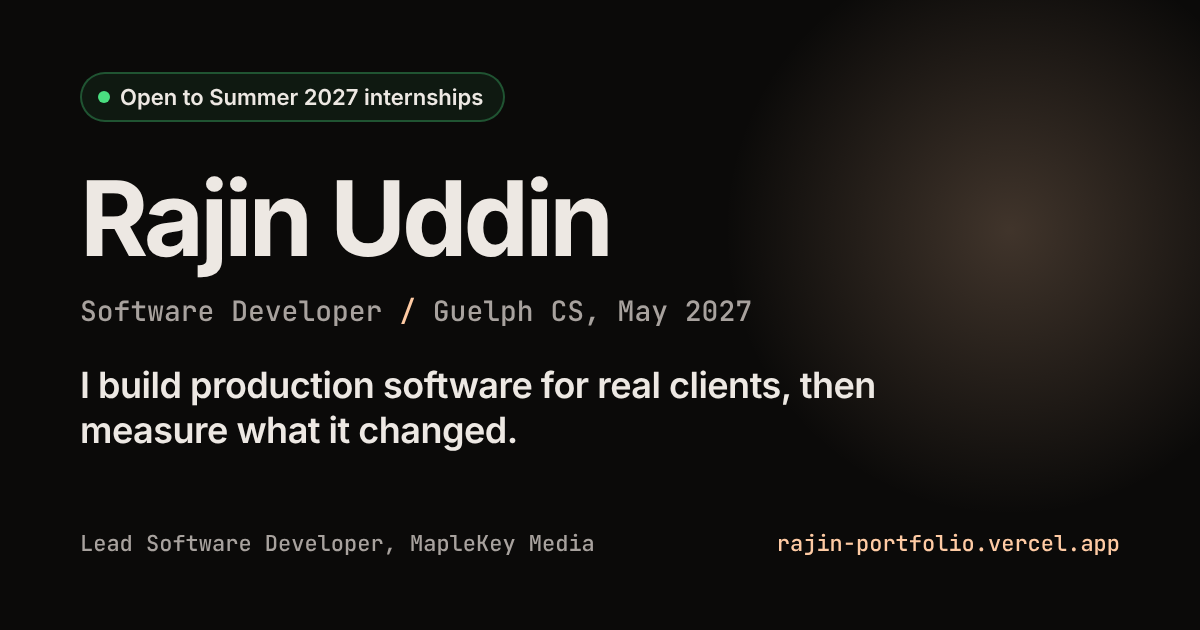
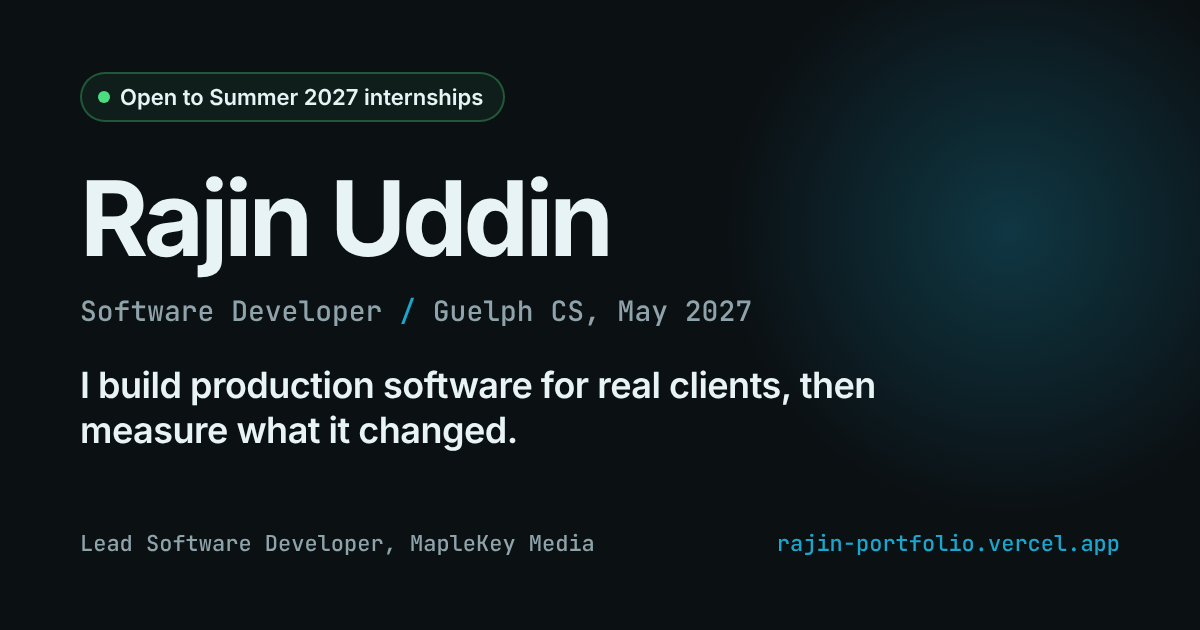
Switch palette to black basalt, bone and glacier blue
- Tokens: basalt #0B1013 background, bone #E8F3F6 text, glacier blue #1BA6CD
  accent (actions only), cool neutrals for body and labels. All pass WCAG AA
  (bone 16.9:1, accent 6.7:1, dark text on accent buttons 6.7:1).
- 3D scene, CRT screen phosphor, favicon, touch icon and OG image recoloured.
- CLAUDE.md palette rules updated.

Claude-Session: https://claude.ai/code/session_01JBP2EumYtCY2mXRBGovGVR

diff --git a/src/styles/sections.css b/src/styles/sections.css
@@ -41,7 +41,7 @@ main > section + section .section-container { border-top: 1px solid var(--color-
   align-items: center;
   min-height: 44px;
   gap: 6px;
-  color: var(--color-peach);
+  color: var(--color-accent);
   font-weight: 600;
   font-size: var(--text-sm);
   text-decoration: none;
@@ -93,8 +93,8 @@ main > section + section .section-container { border-top: 1px solid var(--color-
 }
 .project > article { display: flex; flex-direction: column; width: 100%; }
 .project .tags { margin-top: auto; }
-.project:hover { border-color: rgba(237, 232, 227, 0.2); }
-.project--featured { grid-column: 1 / -1; border-color: rgba(255, 203, 164, 0.28); }
+.project:hover { border-color: rgba(232, 243, 246, 0.2); }
+.project--featured { grid-column: 1 / -1; border-color: rgba(27, 166, 205, 0.28); }
 .project--featured .project__story { grid-template-columns: repeat(3, minmax(0, 1fr)); }
 
 .project__head { margin-bottom: var(--space-6); }
@@ -120,7 +120,7 @@ main > section + section .section-container { border-top: 1px solid var(--color-
 .about__grid { display: grid; grid-template-columns: 1.15fr 1fr; gap: var(--space-16); align-items: start; }
 .about__bio p { color: var(--color-muted); margin-bottom: var(--space-4); max-width: 62ch; }
 .about__bio .about__next { color: var(--color-text); }
-.about__next strong { color: var(--color-peach); font-weight: 600; }
+.about__next strong { color: var(--color-accent); font-weight: 600; }
 .skills { display: flex; flex-direction: column; gap: var(--space-6); }
 .skills__label { font-size: var(--text-xs); font-weight: 600; color: var(--color-subtle); margin-bottom: var(--space-2); letter-spacing: 0.02em; }
 
@@ -128,7 +128,7 @@ main > section + section .section-container { border-top: 1px solid var(--color-
 .term {
   border: 1px solid var(--color-line);
   border-radius: var(--radius);
-  background: #0f0e0c;
+  background: #0e1519;
   overflow: hidden;
   font-family: var(--font-mono);
 }
@@ -150,7 +150,7 @@ main > section + section .section-container { border-top: 1px solid var(--color-
   max-height: 360px;
   overflow-y: auto;
 }
-.term__ps1, .term__prompt { color: var(--color-peach); }
+.term__ps1, .term__prompt { color: var(--color-accent); }
 .term__form { display: flex; align-items: center; gap: 0; margin-top: 2px; }
 .term__prompt { font-size: 0.875rem; white-space: nowrap; }
 .term__input {
@@ -162,10 +162,10 @@ main > section + section .section-container { border-top: 1px solid var(--color-
   color: var(--color-text);
   font-family: var(--font-mono);
   font-size: 16px; /* 16px stops iOS from zooming the page on focus */
-  caret-color: var(--color-peach);
+  caret-color: var(--color-accent);
 }
 .term__input:focus { outline: none; }
-.term__form:focus-within { box-shadow: inset 0 -1px 0 var(--color-peach-dim); }
+.term__form:focus-within { box-shadow: inset 0 -1px 0 var(--color-accent-dim); }
 .term__chips {
   display: flex;
   flex-wrap: wrap;
@@ -185,7 +185,7 @@ main > section + section .section-container { border-top: 1px solid var(--color-
   cursor: pointer;
   transition: border-color var(--duration) ease, color var(--duration) ease;
 }
-.chip:hover { border-color: rgba(255, 203, 164, 0.5); color: var(--color-peach); }
+.chip:hover { border-color: rgba(27, 166, 205, 0.5); color: var(--color-accent); }
 
 /* ---------- Contact ---------- */
 .contact .section-head { max-width: 760px; }
@@ -208,7 +208,7 @@ main > section + section .section-container { border-top: 1px solid var(--color-
   transition: color var(--duration) ease, border-color var(--duration) ease;
 }
 .contact__link svg { width: 16px; height: 16px; fill: currentColor; }
-.contact__link:hover { color: var(--color-text); border-color: rgba(237, 232, 227, 0.25); }
+.contact__link:hover { color: var(--color-text); border-color: rgba(232, 243, 246, 0.25); }
 .contact__pdf { font-family: var(--font-mono); font-size: 0.625rem; font-weight: 600; padding: 2px 4px; border-radius: 3px; background: var(--color-surface-2); }
 
 .site-footer { padding-top: var(--space-8); border-top: 1px solid var(--color-line); font-size: var(--text-xs); color: var(--color-subtle); }

diff --git a/src/styles/global.css b/src/styles/global.css
@@ -1,19 +1,19 @@
 /* ============================================================
-   Design tokens
-   Palette rule: neutrals carry the content, peach is reserved for
-   things you can click, green only means "available".
+   Design tokens: basalt, bone and glacier blue
+   Palette rule: neutrals carry the content, glacier blue is reserved
+   for things you can click, green only means "available".
    ============================================================ */
 :root {
-  --color-dark: #0b0a09;          /* warm black, page */
-  --color-surface: #14120f;       /* cards */
-  --color-surface-2: #1c1915;     /* raised */
-  --color-text: #ede8e3;          /* warm white, 16:1 on page */
-  --color-muted: #c4bdb6;         /* body copy, 10:1 on cards */
-  --color-subtle: #a8a29e;        /* metadata, 7.4:1 on cards (was #666, 3.3:1, failed WCAG) */
-  --color-line: rgba(237, 232, 227, 0.09);
-  --color-peach: #ffcba4;         /* actions only */
-  --color-peach-strong: #ffb98a;
-  --color-peach-dim: rgba(255, 203, 164, 0.14);
+  --color-dark: #0b1013;          /* black basalt, page */
+  --color-surface: #121a1f;       /* cards */
+  --color-surface-2: #18232a;     /* raised */
+  --color-text: #e8f3f6;          /* bone, 16.9:1 on page */
+  --color-muted: #b9c8ce;         /* body copy, 10.2:1 on cards */
+  --color-subtle: #8fa3ab;        /* metadata, 6.7:1 on cards */
+  --color-line: rgba(232, 243, 246, 0.09);
+  --color-accent: #1ba6cd;        /* glacier blue, actions only, 6.7:1 on page */
+  --color-accent-strong: #3dbbdd; /* hover */
+  --color-accent-dim: rgba(27, 166, 205, 0.14);
   --color-available: #4ade80;
 
   --font-mono: 'JetBrains Mono', ui-monospace, 'SFMono-Regular', Menlo, monospace;
@@ -69,11 +69,11 @@ ul, ol { list-style: none; }
 a { color: inherit; }
 button { font: inherit; color: inherit; }
 
-::selection { background: var(--color-peach); color: var(--color-dark); }
+::selection { background: var(--color-accent); color: var(--color-dark); }
 
 /* One visible, consistent focus ring everywhere (keyboard users only) */
 :focus-visible {
-  outline: 2px solid var(--color-peach);
+  outline: 2px solid var(--color-accent);
   outline-offset: 3px;
   border-radius: 4px;
 }
@@ -84,7 +84,7 @@ button { font: inherit; color: inherit; }
   left: 12px;
   z-index: 300;
   padding: 10px 16px;
-  background: var(--color-peach);
+  background: var(--color-accent);
   color: var(--color-dark);
   font-weight: 600;
   border-radius: 6px;
@@ -120,7 +120,7 @@ button { font: inherit; color: inherit; }
 }
 
 .noscript { padding: 120px 24px; max-width: 640px; margin: 0 auto; }
-.noscript a { color: var(--color-peach); }
+.noscript a { color: var(--color-accent); }
 
 /* ---------- Buttons: one primary per view, clear hierarchy ---------- */
 .btn {
@@ -144,14 +144,14 @@ button { font: inherit; color: inherit; }
 }
 .btn:active { transform: translateY(1px) scale(0.99); }
 
-.btn--primary { background: var(--color-peach); color: var(--color-dark); }
-.btn--primary:hover { background: var(--color-peach-strong); }
+.btn--primary { background: var(--color-accent); color: var(--color-dark); }
+.btn--primary:hover { background: var(--color-accent-strong); }
 
-.btn--secondary { border-color: rgba(255, 203, 164, 0.55); color: var(--color-peach); }
-.btn--secondary:hover { background: var(--color-peach-dim); border-color: var(--color-peach); }
+.btn--secondary { border-color: rgba(27, 166, 205, 0.55); color: var(--color-accent); }
+.btn--secondary:hover { background: var(--color-accent-dim); border-color: var(--color-accent); }
 
 .btn--ghost { color: var(--color-muted); }
-.btn--ghost:hover { color: var(--color-text); background: rgba(237, 232, 227, 0.06); }
+.btn--ghost:hover { color: var(--color-text); background: rgba(232, 243, 246, 0.06); }
 
 .btn--sm { min-height: 38px; padding: 0 var(--space-4); font-size: var(--text-xs); }
 .btn--lg { min-height: 56px; padding: 0 var(--space-8); font-size: var(--text-base); }

diff --git a/src/computer/ComputerModel.ts b/src/computer/ComputerModel.ts
@@ -11,25 +11,25 @@ export class ComputerModel {
 
     // --- Materials ---
     const darkPlastic = new THREE.MeshStandardMaterial({
-      color: 0x1c1c1c,
+      color: 0x1a2328,
       roughness: 0.75,
       metalness: 0.05,
     })
 
     const bezelMat = new THREE.MeshStandardMaterial({
-      color: 0x242424,
+      color: 0x202b31,
       roughness: 0.7,
       metalness: 0.05,
     })
 
     const keyboardMat = new THREE.MeshStandardMaterial({
-      color: 0x202020,
+      color: 0x1c252a,
       roughness: 0.8,
       metalness: 0.0,
     })
 
     const keyMat = new THREE.MeshStandardMaterial({
-      color: 0x2a2a2a,
+      color: 0x26323a,
       roughness: 0.9,
       metalness: 0.0,
     })
@@ -113,20 +113,20 @@ export class ComputerModel {
     this.group.add(divider)
 
     // --- Lighting ---
-    const ambientLight = new THREE.AmbientLight(0xfff0e5, 0.5)
+    const ambientLight = new THREE.AmbientLight(0xe8f3f6, 0.45)
     scene.add(ambientLight)
 
-    const keyLight = new THREE.PointLight(0xffcba4, 60, 15)
+    const keyLight = new THREE.PointLight(0xe8f3f6, 55, 15)
     keyLight.position.set(-2, 3, 4)
     keyLight.castShadow = true
     scene.add(keyLight)
 
-    const fillLight = new THREE.PointLight(0xffffff, 10, 10)
+    const fillLight = new THREE.PointLight(0x1ba6cd, 10, 10)
     fillLight.position.set(2, 1, 3)
     scene.add(fillLight)
 
-    // Screen glow — soft peach emanating from the monitor
-    const screenGlow = new THREE.PointLight(0xffcba4, 5, 2)
+    // Screen glow: soft glacier blue spilling from the monitor
+    const screenGlow = new THREE.PointLight(0x1ba6cd, 2, 1.5)
     screenGlow.position.set(0, 0.4, 0.5)
     this.group.add(screenGlow)
   }

diff --git a/src/computer/ScreenRenderer.ts b/src/computer/ScreenRenderer.ts
@@ -10,11 +10,11 @@ const PADDING = 40
 const CURSOR_W = 14
 const MAX_LINES = Math.floor((CANVAS_H - PADDING * 2) / LINE_HEIGHT)
 
-const COLOR_BG = '#050f0a'
-const COLOR_TEXT = '#c8ffc8'
-const COLOR_DIM = '#5a8a5a'
-const COLOR_PROMPT = '#ffcba4'
-const COLOR_CURSOR = '#ffcba4'
+const COLOR_BG = '#050c10'
+const COLOR_TEXT = '#d4eef5'
+const COLOR_DIM = '#5f8794'
+const COLOR_PROMPT = '#3dbbdd'
+const COLOR_CURSOR = '#3dbbdd'
 
 const BOOT_LINES = [
   'RU-BIOS 2.0  rajin@portfolio',
@@ -165,9 +165,9 @@ export class ScreenRenderer {
     ctx.fillStyle = COLOR_BG
     ctx.fillRect(0, 0, CANVAS_W, CANVAS_H)
 
-    // Subtle green gradient overlay (CRT phosphor warmth)
+    // Subtle glacier blue gradient overlay (CRT phosphor glow)
     const grad = ctx.createLinearGradient(0, 0, 0, CANVAS_H)
-    grad.addColorStop(0, 'rgba(0,255,128,0.04)')
+    grad.addColorStop(0, 'rgba(27,166,205,0.06)')
     grad.addColorStop(1, 'rgba(0,0,0,0)')
     ctx.fillStyle = grad
     ctx.fillRect(0, 0, CANVAS_W, CANVAS_H)

diff --git a/src/styles/navigation.css b/src/styles/navigation.css
@@ -14,7 +14,7 @@
 
 .nav--scrolled,
 .nav--open {
-  background: rgba(11, 10, 9, 0.82);
+  background: rgba(11, 16, 19, 0.82);
   backdrop-filter: blur(14px);
   -webkit-backdrop-filter: blur(14px);
   border-color: var(--color-line);
@@ -56,7 +56,7 @@
   transition: color var(--duration) ease, background var(--duration) ease;
 }
 .nav__link:hover { color: var(--color-text); }
-.nav__link.is-active { color: var(--color-text); background: rgba(237, 232, 227, 0.07); }
+.nav__link.is-active { color: var(--color-text); background: rgba(232, 243, 246, 0.07); }
 
 .nav__toggle {
   display: none;
@@ -85,7 +85,7 @@
   top: var(--nav-h);
   left: 0;
   right: 0;
-  background: rgba(11, 10, 9, 0.97);
+  background: rgba(11, 16, 19, 0.97);
   border-bottom: 1px solid var(--color-line);
   padding: var(--space-4) var(--space-6) var(--space-8);
 }

diff --git a/src/styles/hero.css b/src/styles/hero.css
@@ -67,7 +67,7 @@
   color: var(--color-subtle);
   margin-bottom: var(--space-6);
 }
-.hero__role-sep { color: var(--color-peach); margin: 0 4px; }
+.hero__role-sep { color: var(--color-accent); margin: 0 4px; }
 
 .hero__pitch {
   font-size: var(--text-xl);
@@ -110,11 +110,11 @@
   letter-spacing: 0.08em;
 }
 .has-3d .hero__scroll-hint { display: block; }
-.hero__scroll-hint::after { content: ' \2193'; color: var(--color-peach); }
+.hero__scroll-hint::after { content: ' \2193'; color: var(--color-accent); }
 
 /* Keep the copy readable when it sits over the 3D scene */
 .has-3d .hero__content {
-  text-shadow: 0 1px 24px rgba(11, 10, 9, 0.9);
+  text-shadow: 0 1px 24px rgba(11, 16, 19, 0.9);
 }
 
 @media (max-width: 640px) {

diff --git a/index.html b/index.html
@@ -6,7 +6,7 @@
   <title>Rajin Uddin | Software Developer, Guelph CS 2027</title>
   <meta name="description" content="Rajin Uddin is a Guelph Computer Science student and Lead Software Developer at MapleKey Media. Open to Summer 2027 internships and 12 to 16 month terms." />
   <meta name="author" content="Rajin Uddin" />
-  <meta name="theme-color" content="#0b0a09" />
+  <meta name="theme-color" content="#0b1013" />
   <meta name="color-scheme" content="dark" />
   <link rel="canonical" href="https://rajin-portfolio.vercel.app/" />
   <link rel="icon" href="/favicon.svg" type="image/svg+xml" />

diff --git a/src/scene/SceneManager.ts b/src/scene/SceneManager.ts
@@ -13,7 +13,7 @@ export class SceneManager {
 
   constructor() {
     this.scene = new THREE.Scene()
-    this.scene.background = new THREE.Color(0x0b0a09)
+    this.scene.background = new THREE.Color(0x0b1013)
 
     this.camera = new THREE.PerspectiveCamera(50, window.innerWidth / window.innerHeight, 0.01, 100)
     this.camera.position.set(0, 0.25, 5)

diff --git a/CLAUDE.md b/CLAUDE.md
@@ -22,7 +22,8 @@ Every change must make one of these faster: knowing who Rajin is, believing the 
 5. Text contrast must pass WCAG AA. Use the tokens in `src/styles/global.css`, never raw hex in components.
 
 ## Design system
-- Neutrals carry content. Peach (`--color-peach`) is only for things you can click. Green (`--color-available`) only means "available for hire".
+- Palette: black basalt `#0B1013` background, bone `#E8F3F6` text, glacier blue `#1BA6CD` accent.
+- Neutrals carry content. Glacier blue (`--color-accent`) is only for things you can click. Green (`--color-available`) only means "available for hire".
 - One filled primary button per screen. Secondary is outlined, tertiary is ghost.
 - Touch targets at least 44px. Body text 17px. Measure under 70ch.
 - Section order follows what recruiters scan first: hero, experience, projects, about, terminal, contact.
